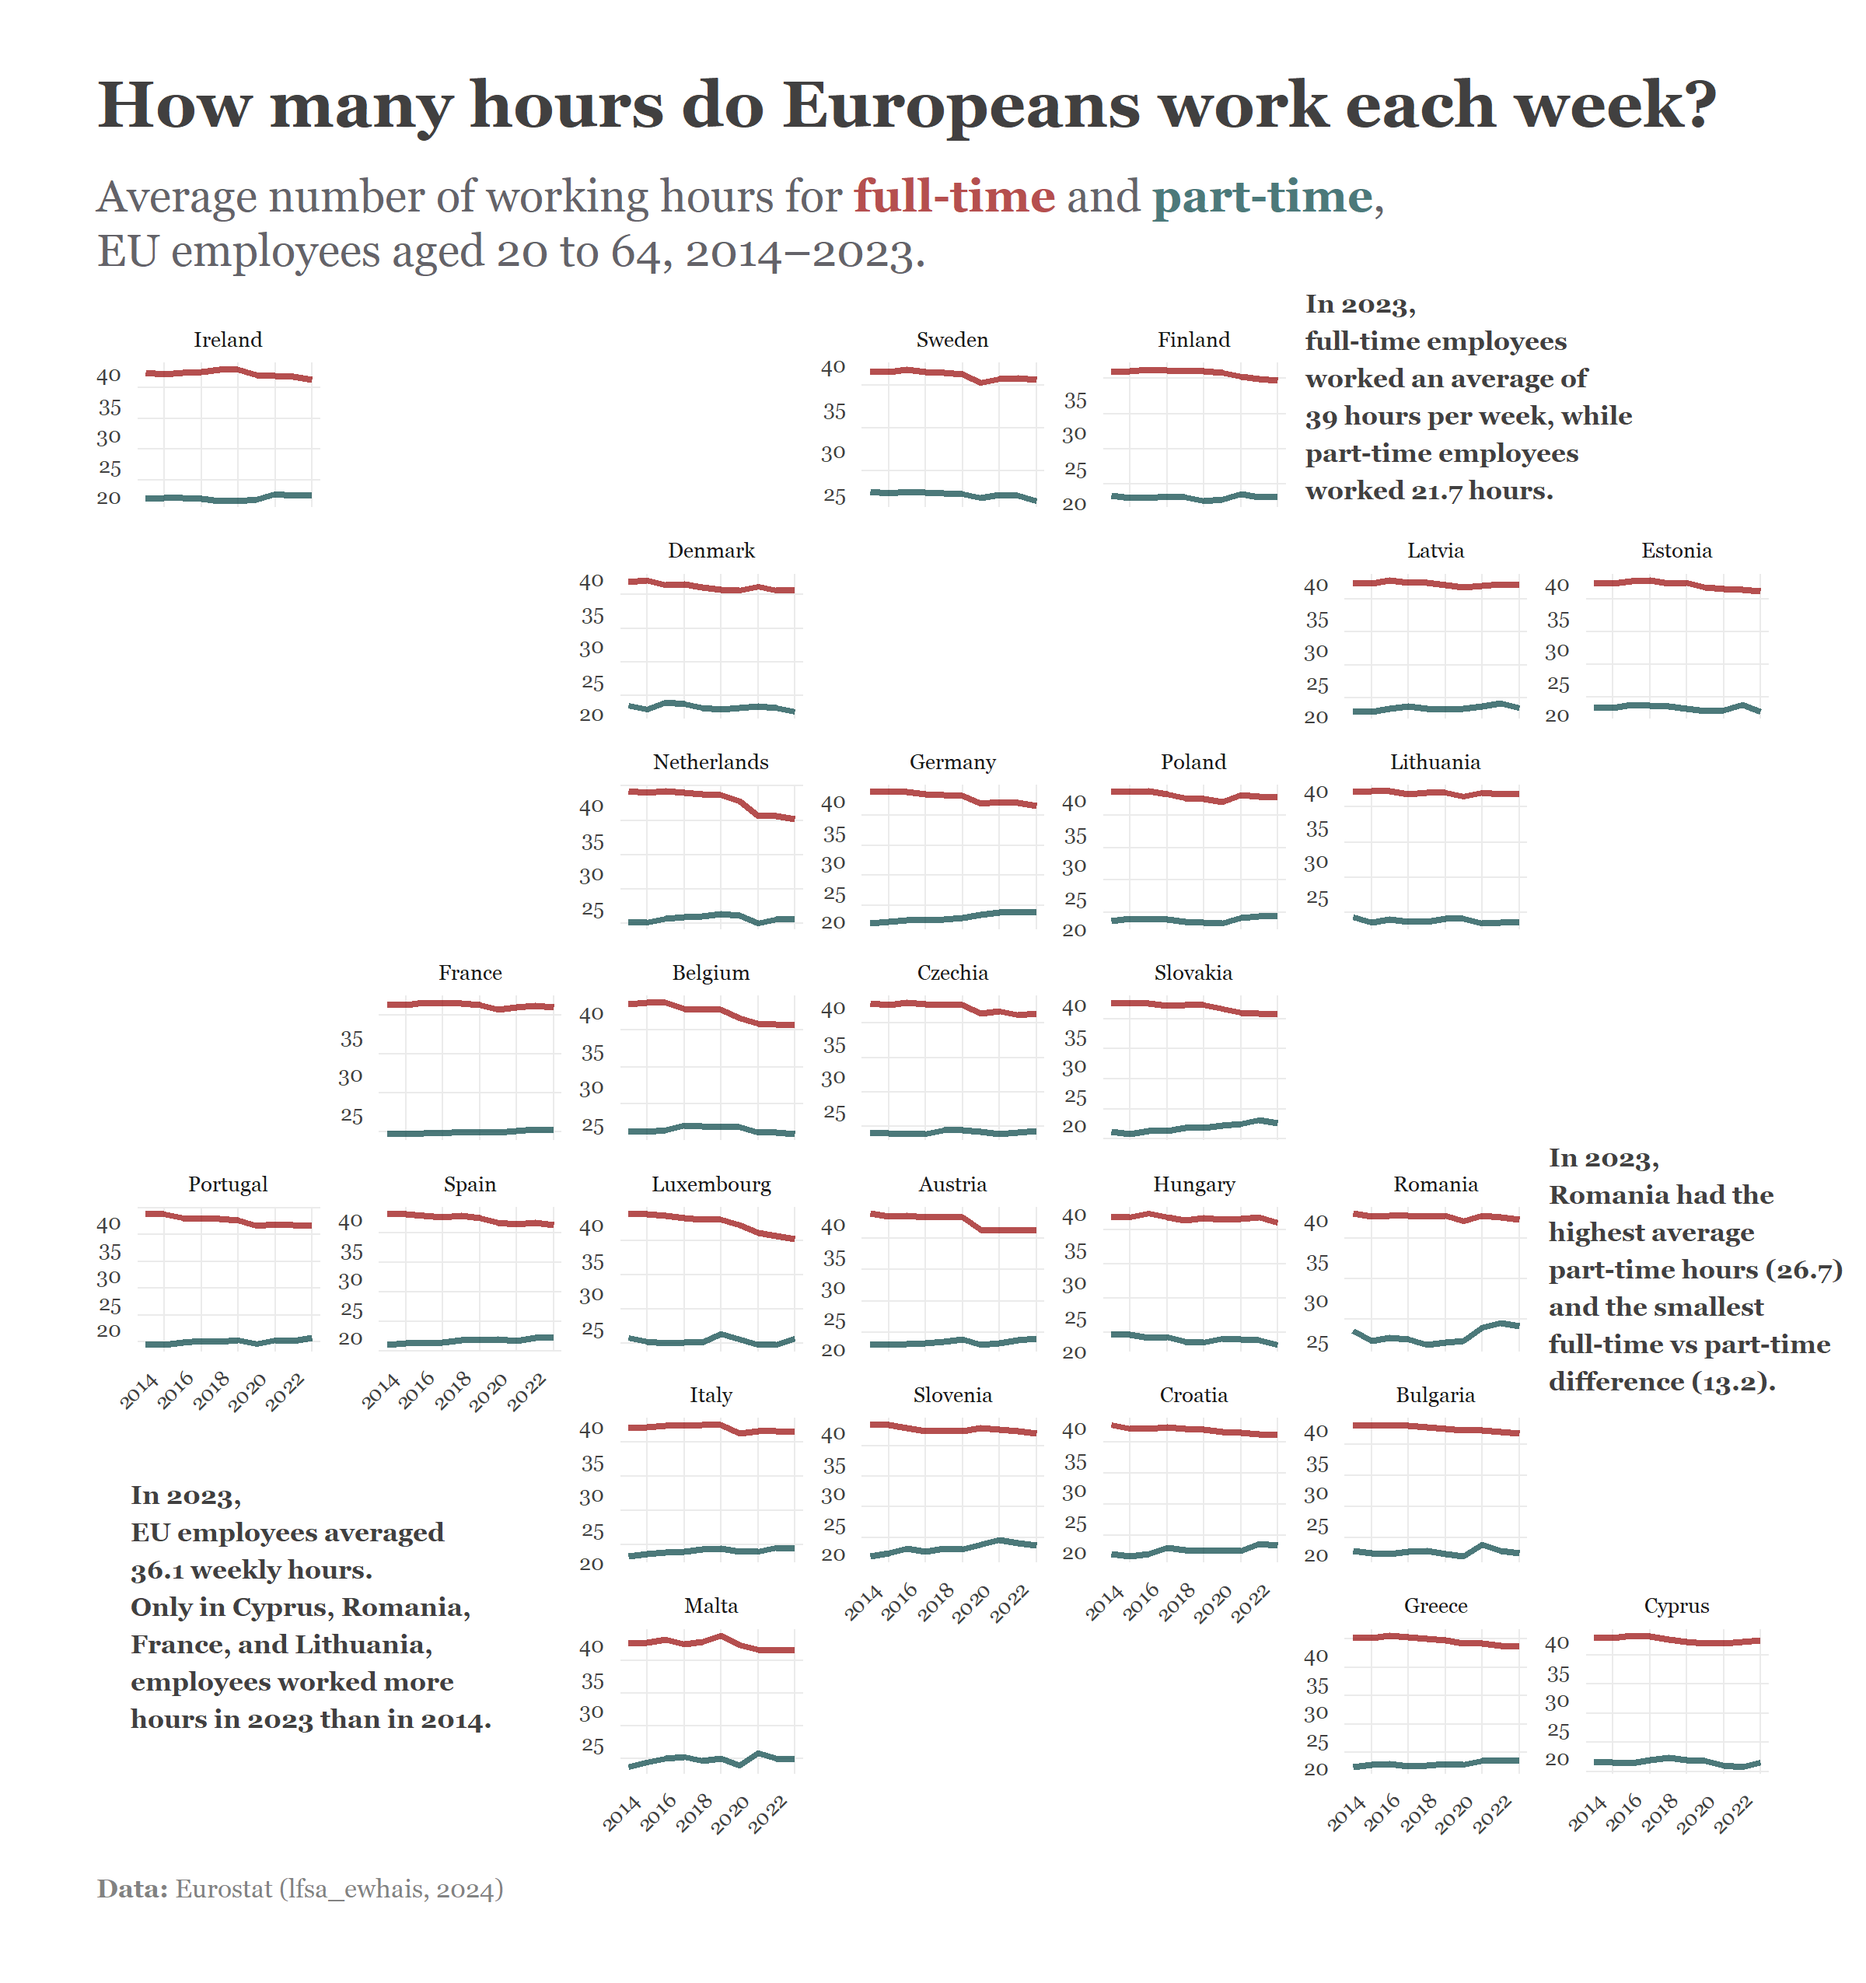
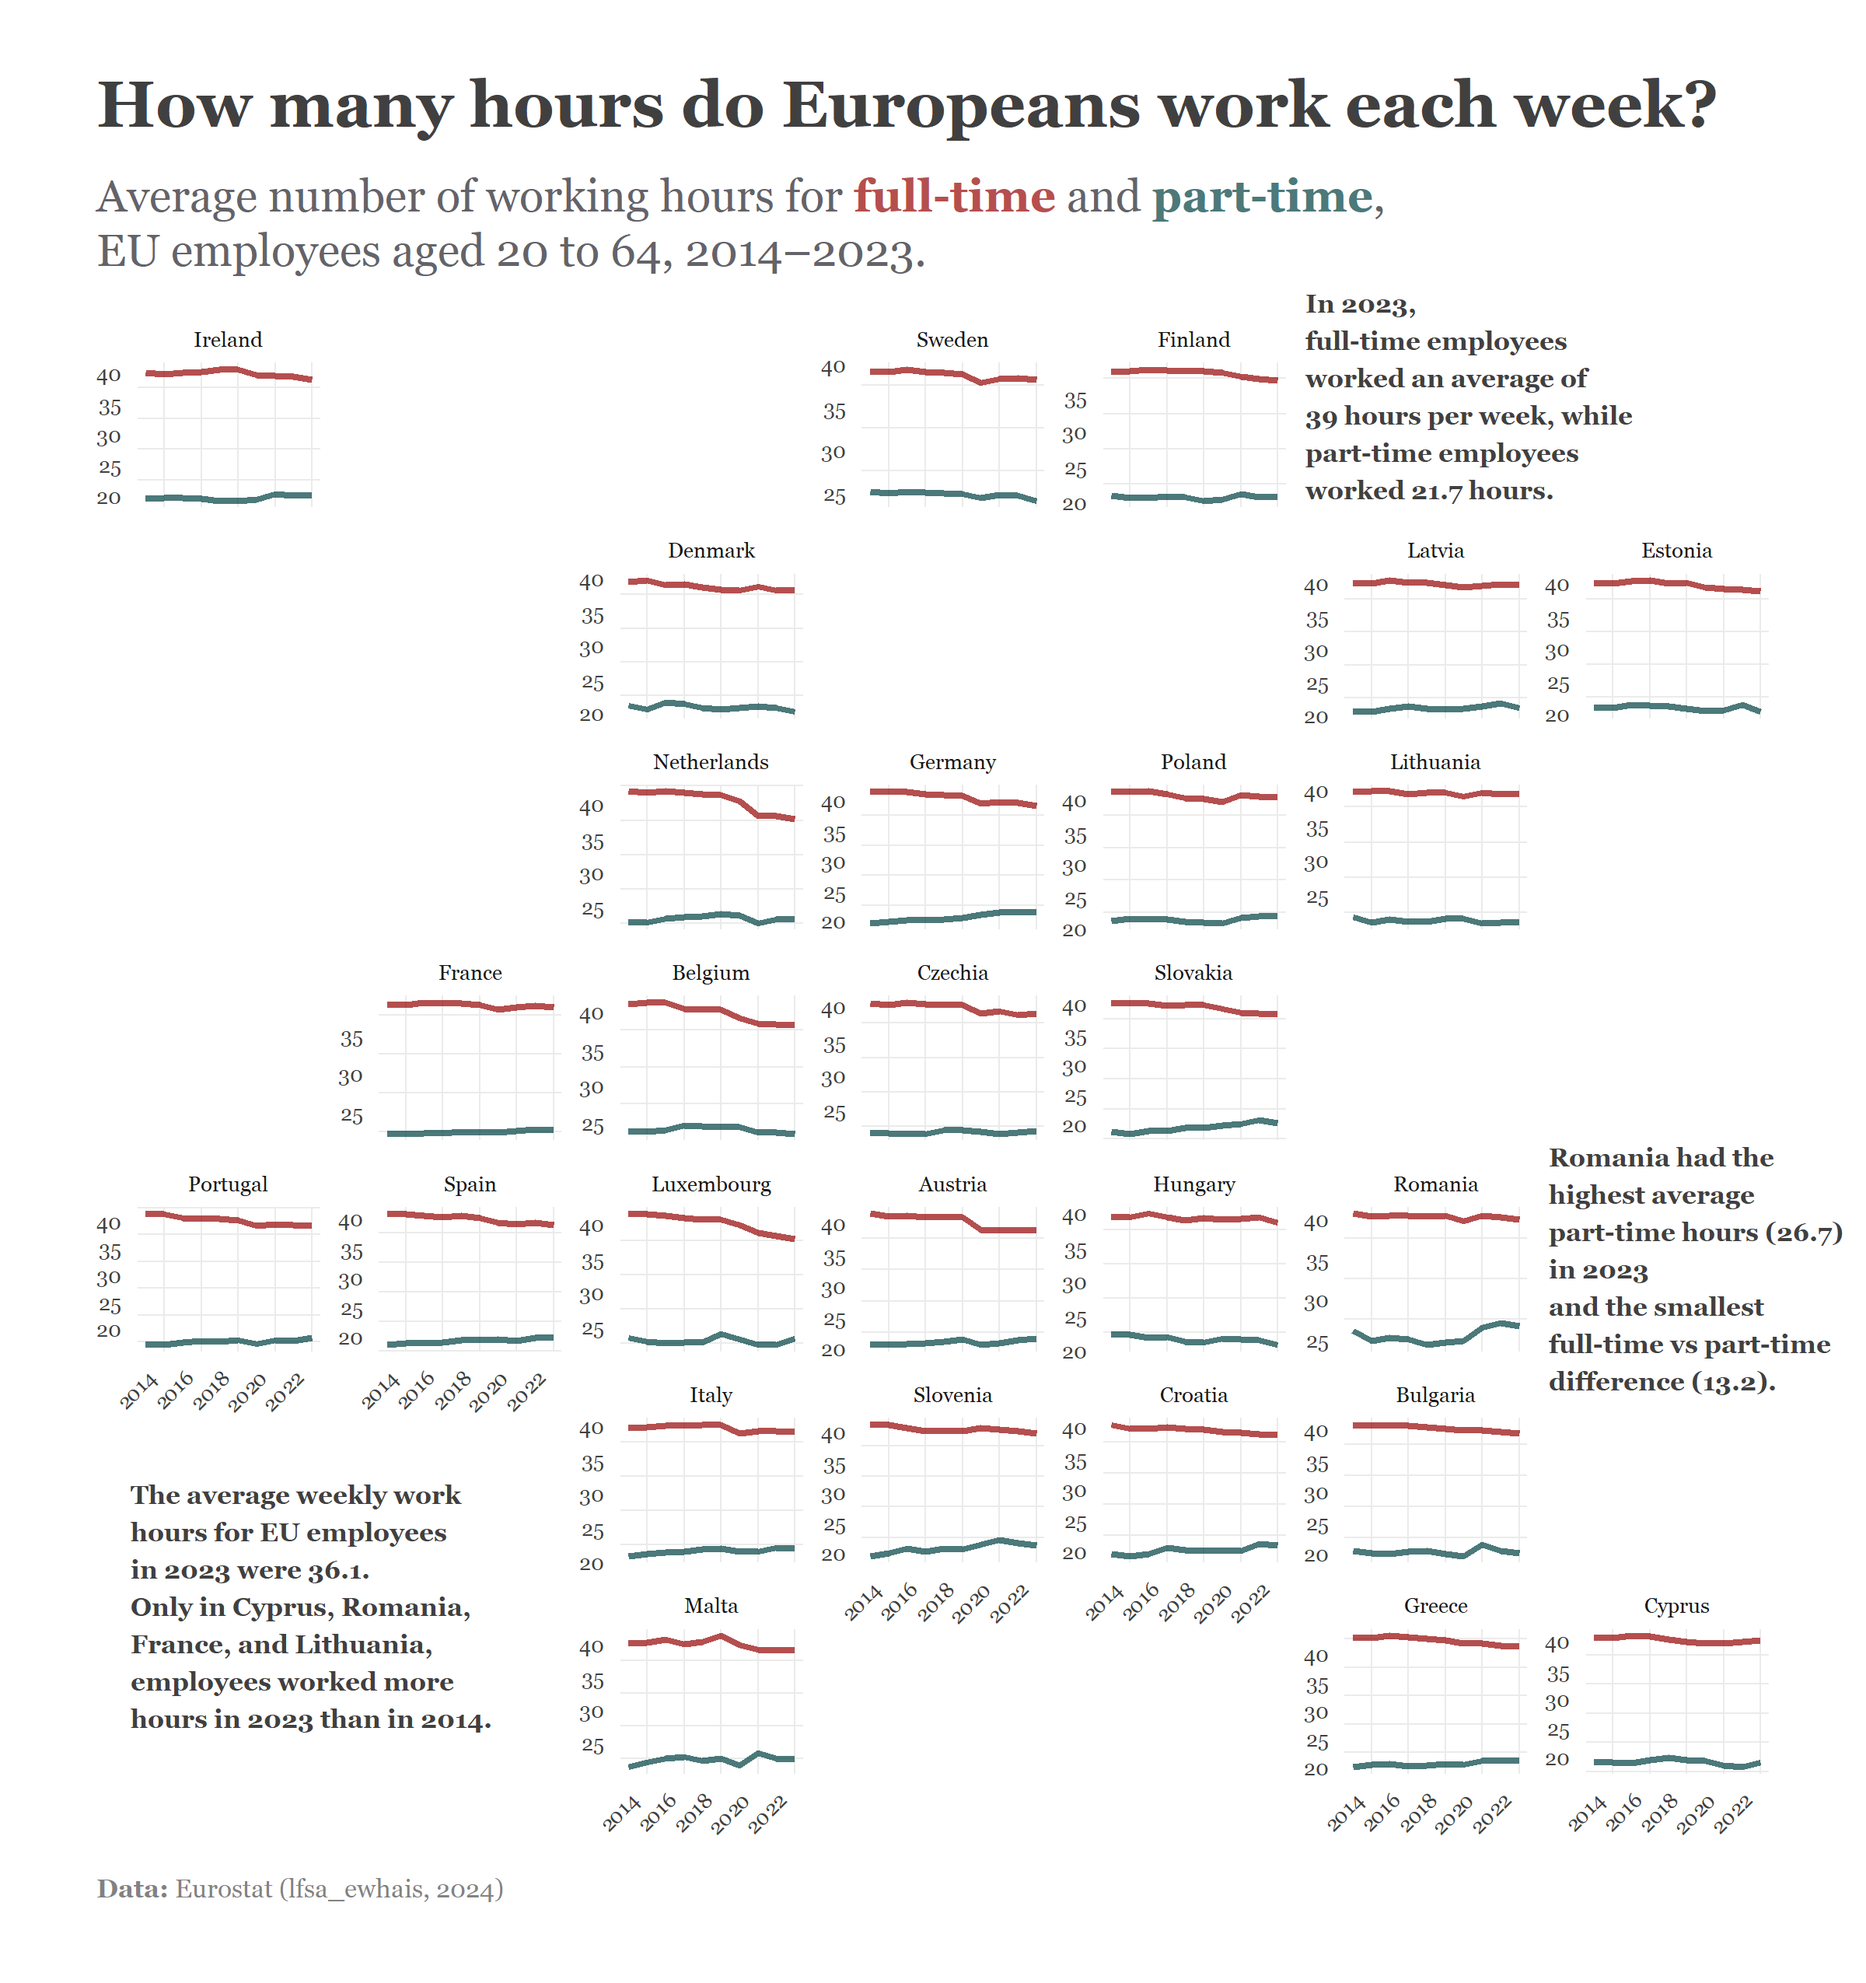
update

Changed region(s): [[0.8125, 0.5576, 1.0, 0.6506], [0.0625, 0.7435, 0.25, 0.8055]]

diff --git a/docs/weekly_dataviz/week_3_2024_09_16/index.html b/docs/weekly_dataviz/week_3_2024_09_16/index.html
@@ -287,7 +287,7 @@ pre > code.sourceCode > span > a:first-child::before { text-decoration: underlin
 <span></span>
 <span><span class="co"># Add text using grid.text()</span></span>
 <span><span class="fu"><a href="https://rdrr.io/r/grid/grid.text.html">grid.text</a></span><span class="op">(</span></span>
-<span>  <span class="st">"In 2023, \nRomania had the \nhighest average \npart-time hours (26.7) \nand the smallest \nfull-time vs part-time \ndifference (13.2)."</span>,</span>
+<span>  <span class="st">"Romania had the \nhighest average \npart-time hours (26.7) \nin 2023\nand the smallest \nfull-time vs part-time \ndifference (13.2)."</span>,</span>
 <span>  x <span class="op">=</span> <span class="fl">0.83</span>,  </span>
 <span>  y <span class="op">=</span> <span class="fl">0.36</span>, </span>
 <span>  just <span class="op">=</span> <span class="st">"left"</span>,</span>
@@ -310,7 +310,7 @@ pre > code.sourceCode > span > a:first-child::before { text-decoration: underlin
 <span><span class="op">)</span></span>
 <span></span>
 <span><span class="fu"><a href="https://rdrr.io/r/grid/grid.text.html">grid.text</a></span><span class="op">(</span></span>
-<span>  <span class="st">"In 2023, \nEU employees averaged \n36.1 weekly hours. \nOnly in Cyprus, Romania, \nFrance, and Lithuania, \nemployees worked more \nhours in 2023 than in 2014."</span>,</span>
+<span>  <span class="st">"The average weekly work \nhours for EU employees \nin 2023 were 36.1. \nOnly in Cyprus, Romania, \nFrance, and Lithuania, \nemployees worked more \nhours in 2023 than in 2014."</span>,</span>
 <span>  x <span class="op">=</span> <span class="fl">0.07</span>,  </span>
 <span>  y <span class="op">=</span> <span class="fl">0.19</span>,  </span>
 <span>  just <span class="op">=</span> <span class="st">"left"</span>,</span>
@@ -935,7 +935,7 @@ window.document.addEventListener("DOMContentLoaded", function (event) {
 <span id="cb3-115"><a href="#cb3-115" aria-hidden="true" tabindex="-1"></a></span>
 <span id="cb3-116"><a href="#cb3-116" aria-hidden="true" tabindex="-1"></a><span class="co"># Add text using grid.text()</span></span>
 <span id="cb3-117"><a href="#cb3-117" aria-hidden="true" tabindex="-1"></a><span class="fu">grid.text</span>(</span>
-<span id="cb3-118"><a href="#cb3-118" aria-hidden="true" tabindex="-1"></a>  <span class="st">"In 2023, </span><span class="sc">\n</span><span class="st">Romania had the </span><span class="sc">\n</span><span class="st">highest average </span><span class="sc">\n</span><span class="st">part-time hours (26.7) </span><span class="sc">\n</span><span class="st">and the smallest </span><span class="sc">\n</span><span class="st">full-time vs part-time </span><span class="sc">\n</span><span class="st">difference (13.2)."</span>,</span>
+<span id="cb3-118"><a href="#cb3-118" aria-hidden="true" tabindex="-1"></a>  <span class="st">"Romania had the </span><span class="sc">\n</span><span class="st">highest average </span><span class="sc">\n</span><span class="st">part-time hours (26.7) </span><span class="sc">\n</span><span class="st">in 2023</span><span class="sc">\n</span><span class="st">and the smallest </span><span class="sc">\n</span><span class="st">full-time vs part-time </span><span class="sc">\n</span><span class="st">difference (13.2)."</span>,</span>
 <span id="cb3-119"><a href="#cb3-119" aria-hidden="true" tabindex="-1"></a>  <span class="at">x =</span> <span class="fl">0.83</span>,  </span>
 <span id="cb3-120"><a href="#cb3-120" aria-hidden="true" tabindex="-1"></a>  <span class="at">y =</span> <span class="fl">0.36</span>, </span>
 <span id="cb3-121"><a href="#cb3-121" aria-hidden="true" tabindex="-1"></a>  <span class="at">just =</span> <span class="st">"left"</span>,</span>
@@ -958,7 +958,7 @@ window.document.addEventListener("DOMContentLoaded", function (event) {
 <span id="cb3-138"><a href="#cb3-138" aria-hidden="true" tabindex="-1"></a>)</span>
 <span id="cb3-139"><a href="#cb3-139" aria-hidden="true" tabindex="-1"></a></span>
 <span id="cb3-140"><a href="#cb3-140" aria-hidden="true" tabindex="-1"></a><span class="fu">grid.text</span>(</span>
-<span id="cb3-141"><a href="#cb3-141" aria-hidden="true" tabindex="-1"></a>  <span class="st">"In 2023, </span><span class="sc">\n</span><span class="st">EU employees averaged </span><span class="sc">\n</span><span class="st">36.1 weekly hours. </span><span class="sc">\n</span><span class="st">Only in Cyprus, Romania, </span><span class="sc">\n</span><span class="st">France, and Lithuania, </span><span class="sc">\n</span><span class="st">employees worked more </span><span class="sc">\n</span><span class="st">hours in 2023 than in 2014."</span>,</span>
+<span id="cb3-141"><a href="#cb3-141" aria-hidden="true" tabindex="-1"></a>  <span class="st">"The average weekly work </span><span class="sc">\n</span><span class="st">hours for EU employees </span><span class="sc">\n</span><span class="st">in 2023 were 36.1. </span><span class="sc">\n</span><span class="st">Only in Cyprus, Romania, </span><span class="sc">\n</span><span class="st">France, and Lithuania, </span><span class="sc">\n</span><span class="st">employees worked more </span><span class="sc">\n</span><span class="st">hours in 2023 than in 2014."</span>,</span>
 <span id="cb3-142"><a href="#cb3-142" aria-hidden="true" tabindex="-1"></a>  <span class="at">x =</span> <span class="fl">0.07</span>,  </span>
 <span id="cb3-143"><a href="#cb3-143" aria-hidden="true" tabindex="-1"></a>  <span class="at">y =</span> <span class="fl">0.19</span>,  </span>
 <span id="cb3-144"><a href="#cb3-144" aria-hidden="true" tabindex="-1"></a>  <span class="at">just =</span> <span class="st">"left"</span>,</span>
@@ -988,8 +988,7 @@ window.document.addEventListener("DOMContentLoaded", function (event) {
 <span id="cb3-168"><a href="#cb3-168" aria-hidden="true" tabindex="-1"></a></span>
 <span id="cb3-169"><a href="#cb3-169" aria-hidden="true" tabindex="-1"></a><span class="ot">[^3]: </span>Wilke C, Wiernik B (2022). *ggtext: Improved Text Rendering Support for 'ggplot2'*. R package version 0.1.2, <span class="ot">&lt;https://CRAN.R-project.org/package=ggtext&gt;</span>.</span>
 <span id="cb3-170"><a href="#cb3-170" aria-hidden="true" tabindex="-1"></a></span>
-<span id="cb3-171"><a href="#cb3-171" aria-hidden="true" tabindex="-1"></a><span class="ot">[^4]: </span>R Core Team (2023). _R: A Language and Environment for Statistical Computing_. R Foundation for Statistical Computing, Vienna, Austria. <span class="ot">&lt;https://www.R-project.org/&gt;</span>.</span>
-<span id="cb3-172"><a href="#cb3-172" aria-hidden="true" tabindex="-1"></a>  </span>
+<span id="cb3-171"><a href="#cb3-171" aria-hidden="true" tabindex="-1"></a><span class="ot">[^4]: </span>R Core Team (2023). *R: A Language and Environment for Statistical Computing*. R Foundation for Statistical Computing, Vienna, Austria. <span class="ot">&lt;https://www.R-project.org/&gt;</span>.</span>
 </code><button title="Copy to Clipboard" class="code-copy-button" data-in-quarto-modal=""><i class="bi"></i></button></pre></div>
 </div></div></div></div></div>
 </div> <!-- /content -->

diff --git a/docs/weekly_dataviz.html b/docs/weekly_dataviz.html
@@ -257,7 +257,7 @@ window.Quarto = {
 
 <div class="quarto-listing quarto-listing-container-default" id="listing-listing">
 <div class="list quarto-listing-default">
-<div class="quarto-post image-right" data-index="0" data-listing-date-sort="1726434000000" data-listing-file-modified-sort="1726484820225" data-listing-date-modified-sort="NaN" data-listing-reading-time-sort="8" data-listing-word-count-sort="1404">
+<div class="quarto-post image-right" data-index="0" data-listing-date-sort="1726434000000" data-listing-file-modified-sort="1726488473411" data-listing-date-modified-sort="NaN" data-listing-reading-time-sort="8" data-listing-word-count-sort="1405">
 <div class="thumbnail">
 <p><a href="./weekly_dataviz/week_3_2024_09_16/index.html" class="no-external"></a></p><a href="./weekly_dataviz/week_3_2024_09_16/index.html" class="no-external">
 <p><img loading="lazy" src="./weekly_dataviz/week_3_2024_09_16/working_hours_eu.png" class="thumbnail-image"></p>

diff --git a/docs/index.html b/docs/index.html
@@ -360,7 +360,7 @@ No matching items
 <h2 data-anchor-id="weekly-dataviz">Weekly DataViz</h2>
 <div id="listing-weekly_dataviz" class="quarto-listing quarto-listing-container-grid">
 <div class="list grid quarto-listing-cols-3">
-<div class="g-col-1" data-index="0" data-listing-date-sort="1726434000000" data-listing-file-modified-sort="1726484820225" data-listing-date-modified-sort="NaN" data-listing-reading-time-sort="8" data-listing-word-count-sort="1404">
+<div class="g-col-1" data-index="0" data-listing-date-sort="1726434000000" data-listing-file-modified-sort="1726488473411" data-listing-date-modified-sort="NaN" data-listing-reading-time-sort="8" data-listing-word-count-sort="1405">
 <a href="./weekly_dataviz/week_3_2024_09_16/index.html" class="quarto-grid-link">
 <div class="quarto-grid-item card h-100 card-left">
 <p class="card-img-top">
